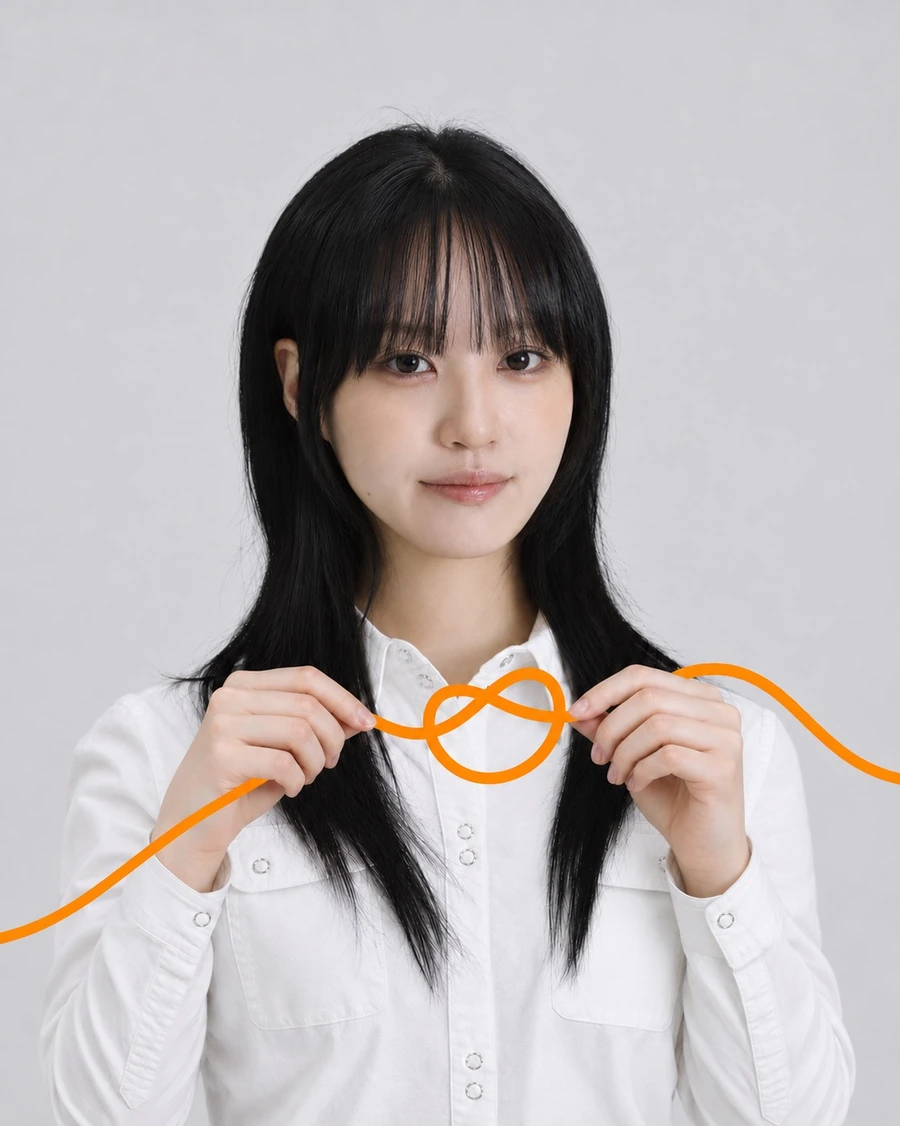
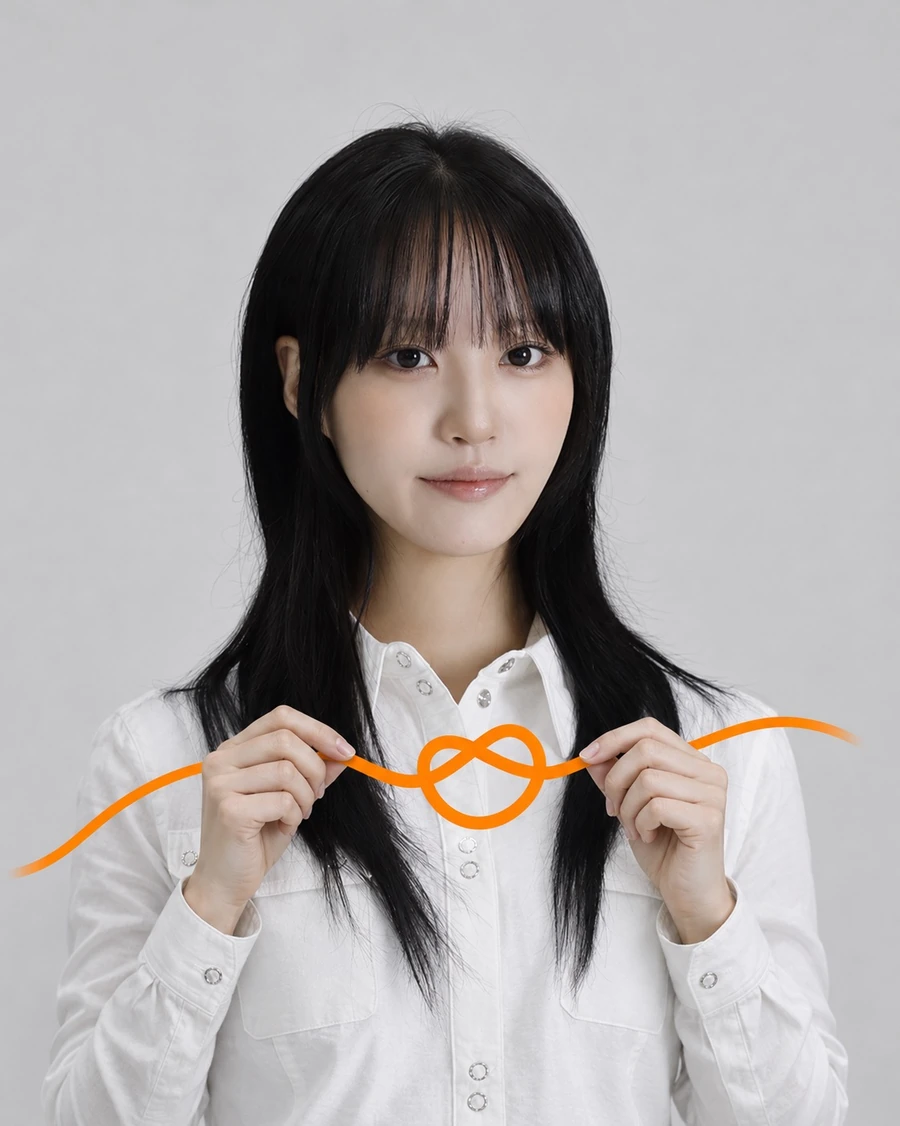
Replace the right profile portrait

diff --git a/index.html b/index.html
@@ -129,7 +129,7 @@
 
     <div data-page="about" hidden>
       <section class="about-profile container" aria-labelledby="about-title"><h1 id="about-title">실마리를 찾아 근거로 매듭짓는 정서영입니다.</h1>
-        <div class="about-profile-grid"><div class="about-portraits"><img src="./assets/optimized/profile.webp" alt="정서영 프로필 사진" width="600" height="751" loading="lazy" decoding="async" fetchpriority="high"><img src="./assets/optimized/profile-thread.webp" alt="주황색 실로 매듭을 만든 정서영" width="900" height="1126" loading="lazy" decoding="async"></div>
+        <div class="about-profile-grid"><div class="about-portraits"><img src="./assets/optimized/profile.webp" alt="정서영 프로필 사진" width="600" height="751" loading="lazy" decoding="async" fetchpriority="high"><img src="./assets/optimized/profile-thread.webp?v=04de062c" alt="주황색 실로 매듭을 만든 정서영" width="900" height="1126" loading="lazy" decoding="async"></div>
         <div class="document-links"><a class="document-button" href="./assets/seoyeong-resume.pdf" download="정서영_이력서.pdf">이력서 · 경험의 실 담아가기</a><a class="document-button" href="./assets/seoyeong-cover-letter.pdf" download="정서영_자기소개서.pdf">자기소개서 · 생각의 매듭 담아가기</a></div>
         <div class="about-profile-copy"><p>작은 불편을 발견하는 일이 기획의 시작이라고 생각합니다.<br>
 사용자의 이야기에서 얻은 단서를 구체적인 해결 방법으로 발전시키고,<br>
